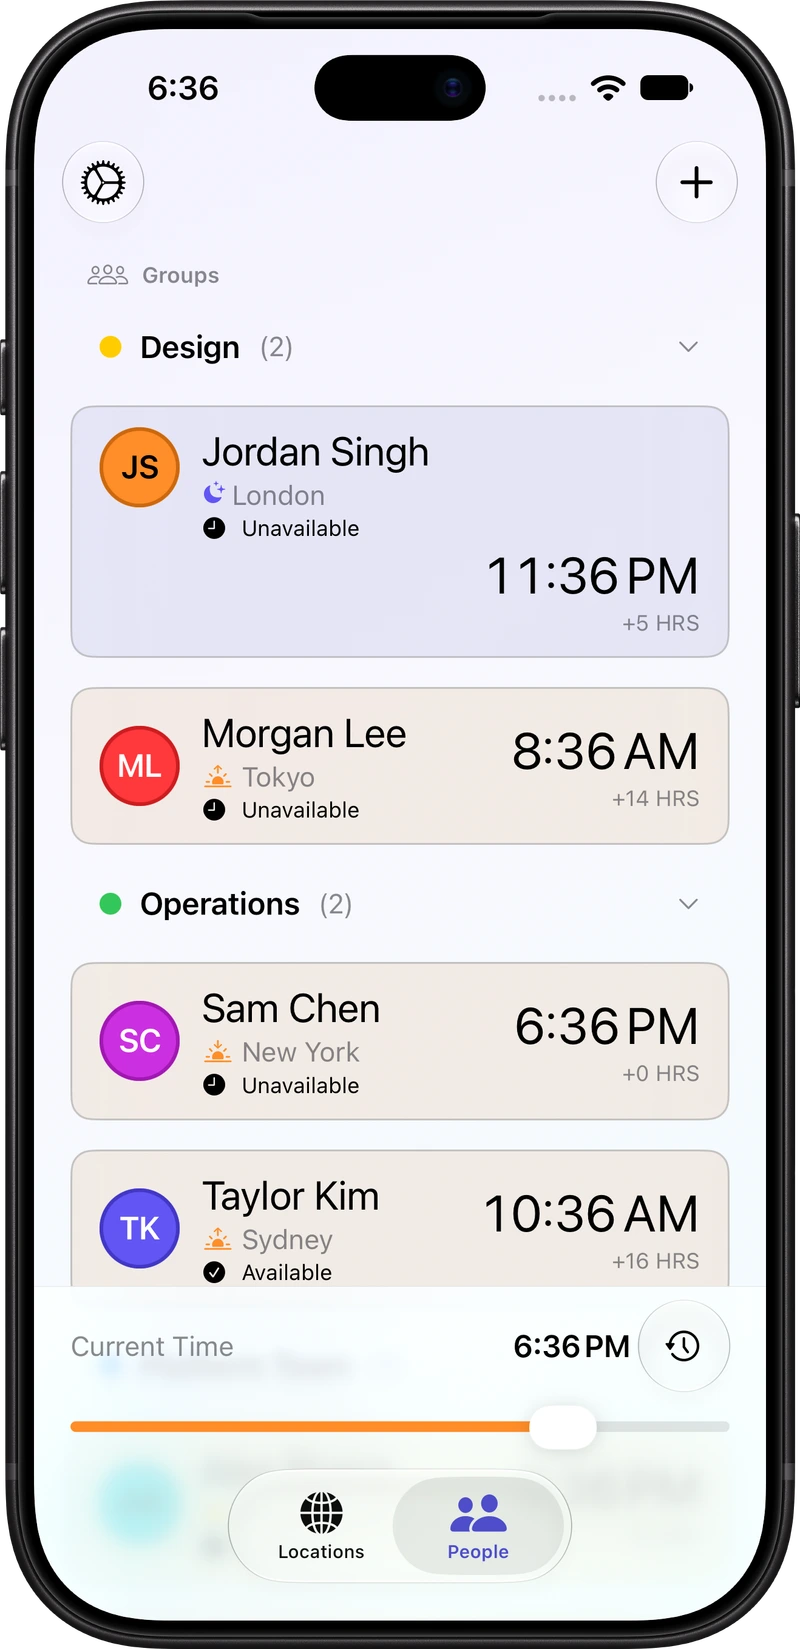
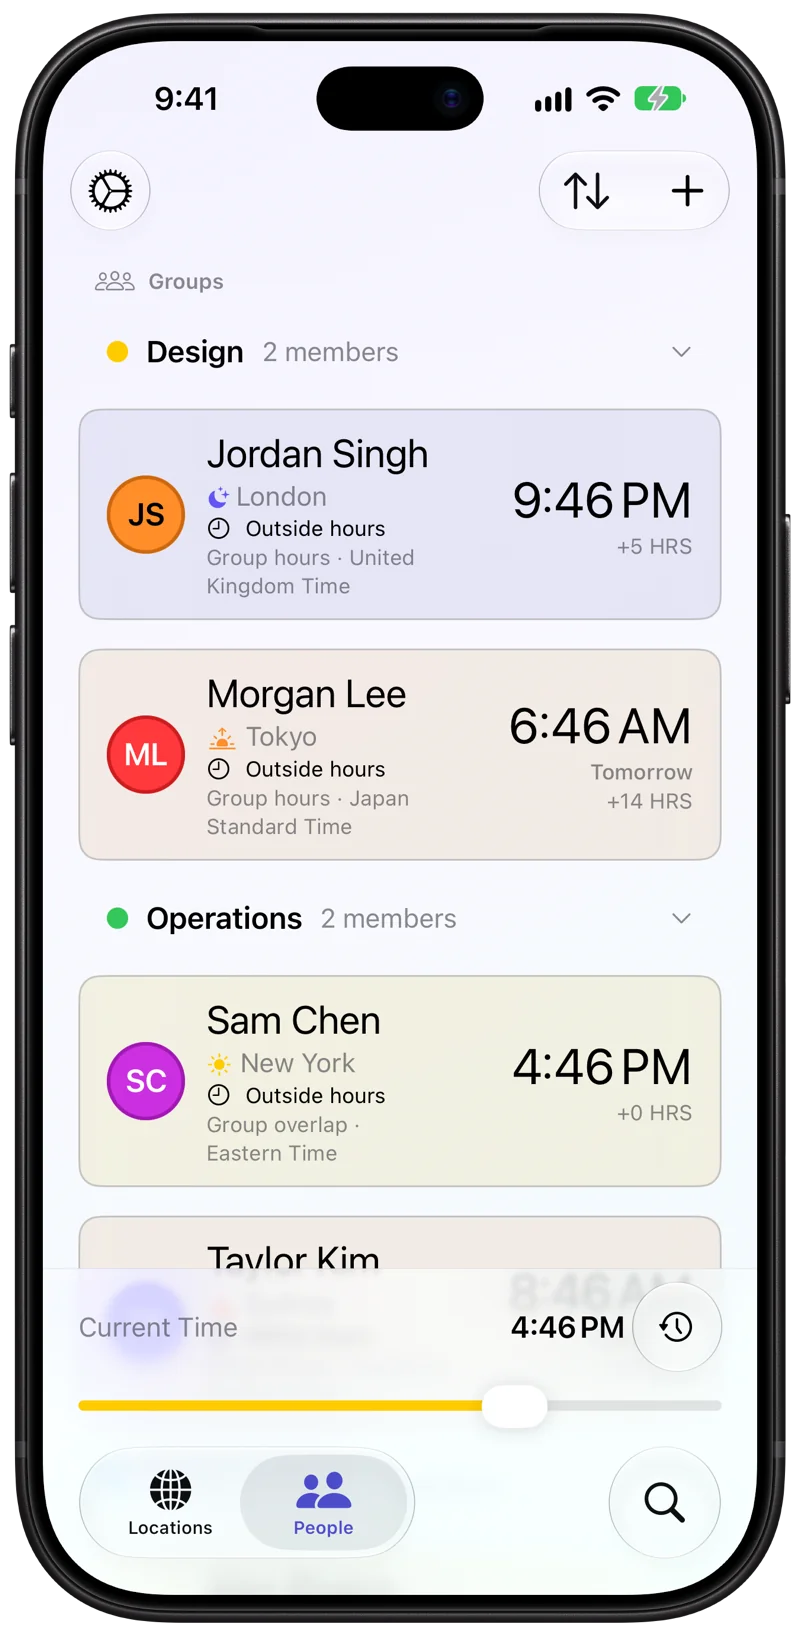
feat(zoneroo): refresh screenshots for the 1.0 release
Capture the hero, homepage shelf, and iPad images from Zoneroo main at 91b430a, which adds search, sort, and the new card layout.

diff --git a/Zoneroo/index.md b/Zoneroo/index.md
@@ -10,7 +10,7 @@ product:
     image: /assets/images/zoneroo/shelf-800.webp
     image_srcset: "/assets/images/zoneroo/shelf-400.webp 400w, /assets/images/zoneroo/shelf-800.webp 800w"
     image_width: 800
-    image_height: 1649
+    image_height: 1636
     sizes: 185px
     media_phone: true
   platforms: Mac · iPhone · iPad
